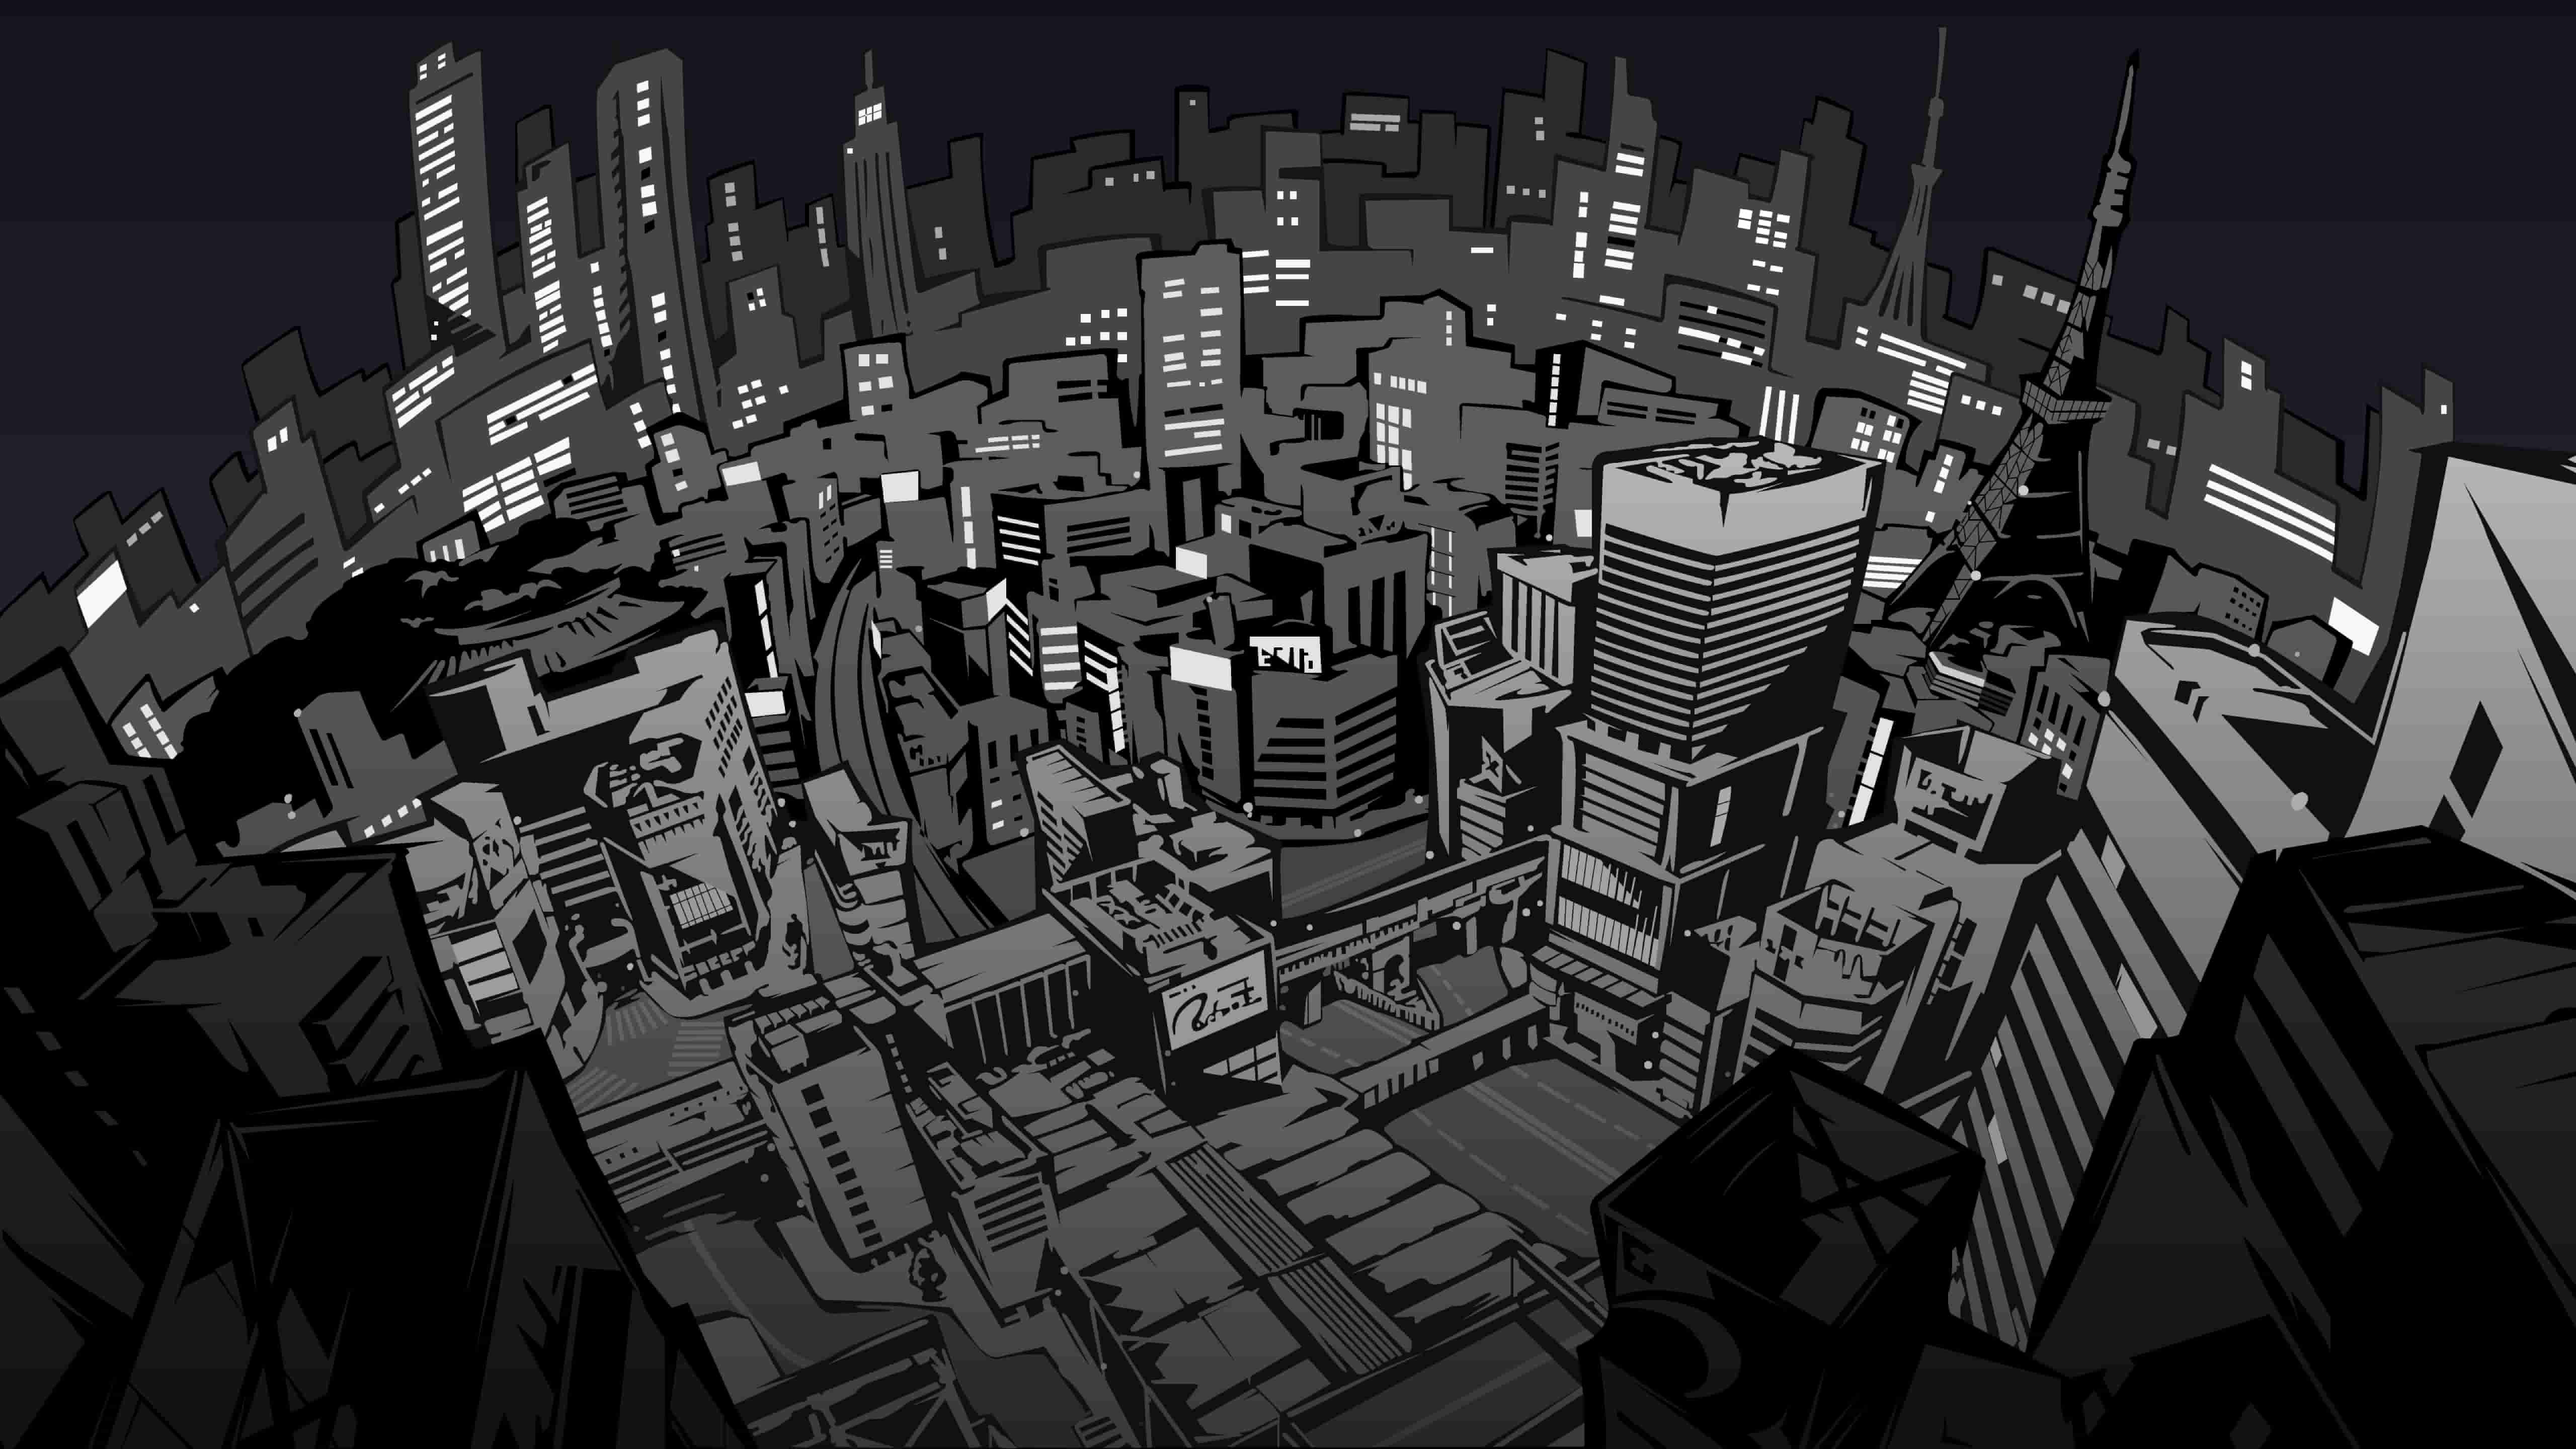
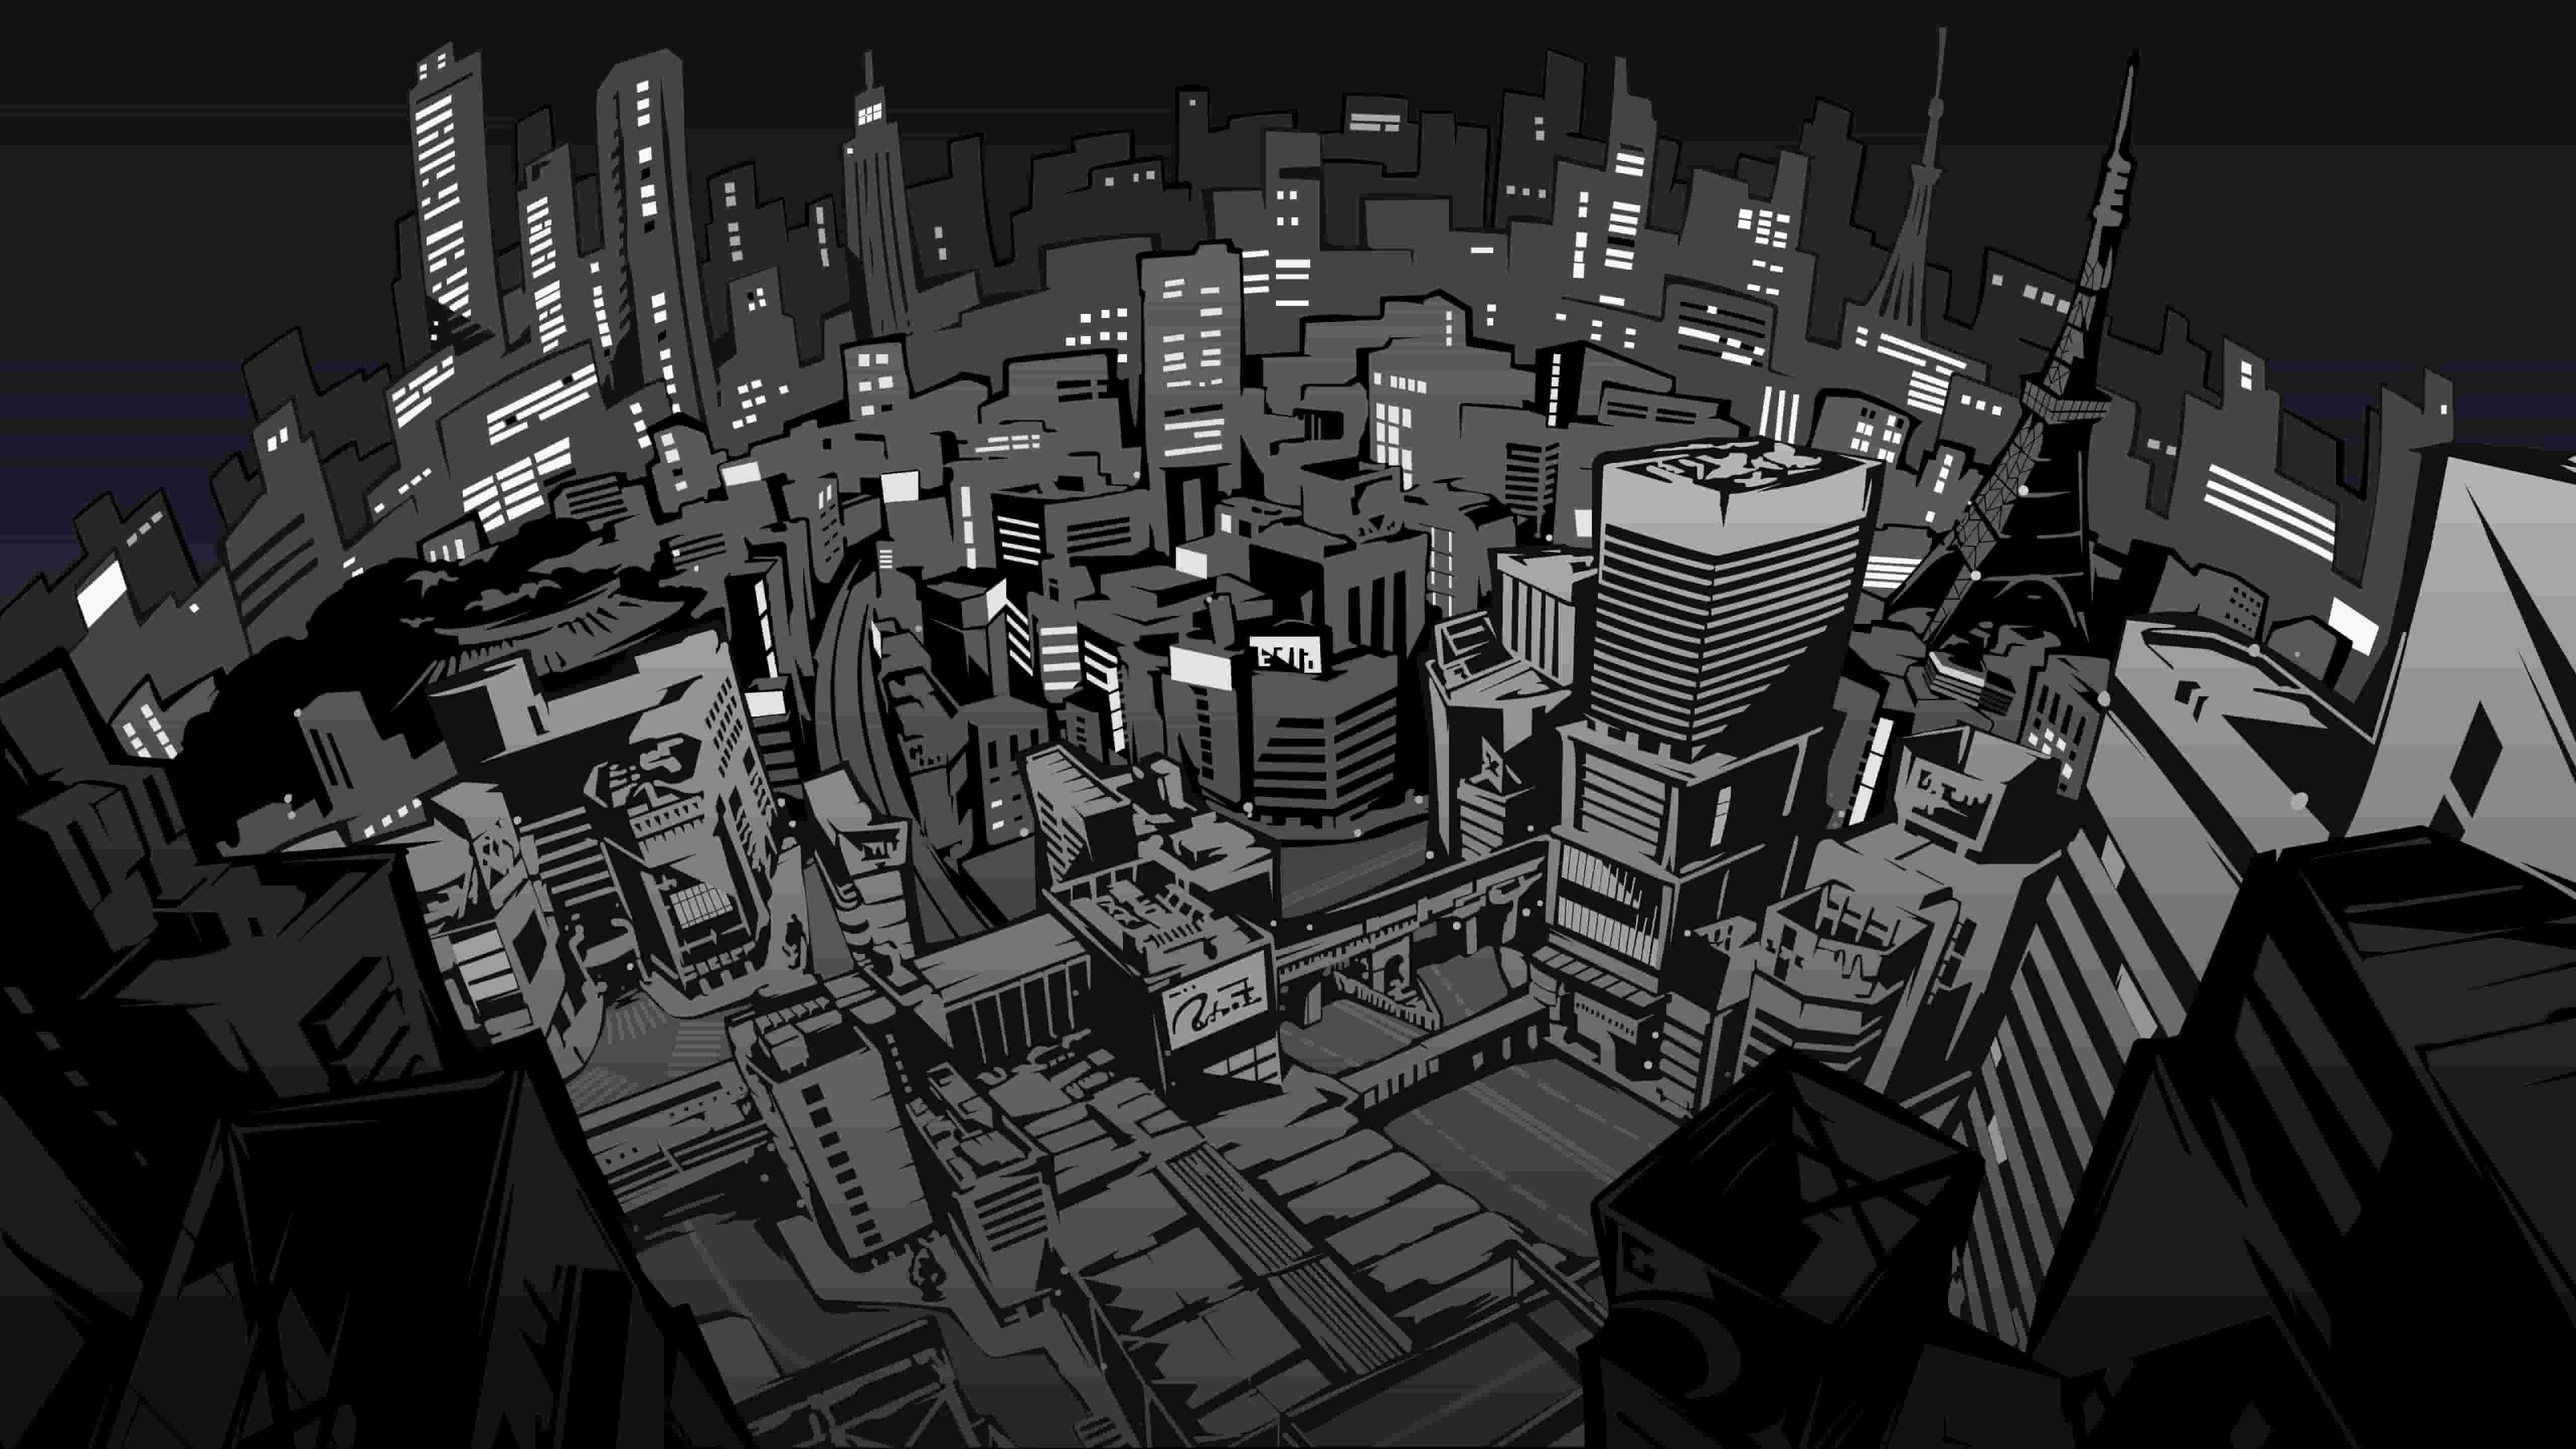
screenshots added to readme, futher compressed background images

diff --git a/routes/api-routes.js b/routes/api-routes.js
@@ -25,7 +25,7 @@ module.exports = function(app) {
   })
 
   // route to return a list of all users
-  app.get("/api/user", isAuthenticated, function(req, res) { // add isAuthenticated to each route to stop unverified api calls
+  app.get("/api/user", isAuthenticated, function(req, res) {
     db.User.findAll({ }).then(function(dbUser) {
       res.json(dbUser);
     })

diff --git a/README.md b/README.md
@@ -2,11 +2,19 @@
 
 An application built around the premise of ending the isolation people feel in their day to day lives. Bring back the community spirit that was once abundant in the neighbourhood streets.
 
+![login](client/public/assets/Screenshots/loginSS.png?raw=true "Login page")
+
 These days people rarely know their next door neighbours let alone the ones down the street, KAN’s goal is to geographically get to know those around you and most importantly only when you want to!
+
+![forum](client/public/assets/Screenshots/forumSS.png?raw=true "Forum page") 
 
 The application is built around a forum and map, the forum being for everyday enquiries that anyone can access, being able to post topics or comments. The map has two features the first is for places of interest so locals know where to go, whether it be a great coffee shop, nice playground or simply the best place to view the sunset. 
 
+![chat](client/public/assets/Screenshots/chatSS.png?raw=true "Chat page")
+
 The secondary feature of the map is to allow other users to see who is online, as the only way anyone can view or chat to a user is if they are online. If someone does not want to be contacted they can just delete their online marker and use the rest of the application as is.
+
+![map](client/public/assets/Screenshots/mapSS.png?raw=true "Map page") 
 
 On logging out, the users online marker is automatically removed and any active chats and their message history deleted whilst any places of interest or forum posts stay until the user or admin decides otherwise.
 
